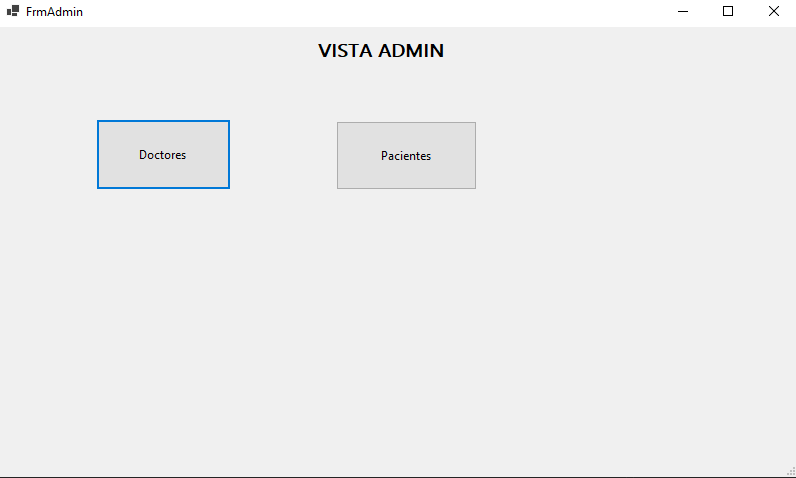
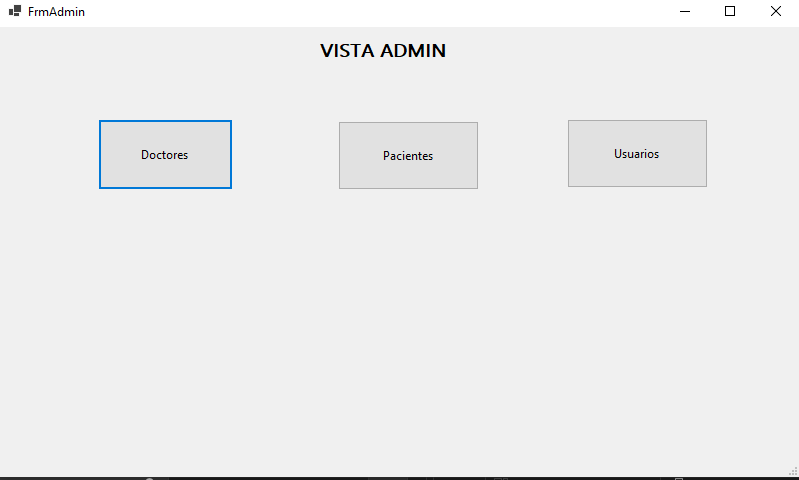
Se añaden capturas de pantalla y se termina el readme

diff --git a/README.md b/README.md
@@ -1,21 +1,154 @@
 # AppGestionClinica
-El propósito de este proyecto es realizar una entrega para reunir todos los conocimientos del semestre en un proyecto final, integrando con bases de datos y simulando un proyecto real. En este caso, es la gestión de una clínica, con Doctores, Pacientes, Citas, Disponibilidad, Registreo del paciente, Pagos y gestión de roles de usuario.
+El propósito de este proyecto es realizar una entrega para reunir todos los conocimientos del semestre en un proyecto final, integrando con bases de datos y simulando un proyecto real. En este caso, es la gestión de una clínica, con Doctores, Pacientes, Citas, Disponibilidad, tratamientos del paciente, Pagos y gestión de roles de usuario.
 
-## Funcionalidades actuales
-- Autenticación de usuarios con control de acceso por roles (Administrador y Recepcionista).
-- CRUD para la entidad:
+---
+
+## Funcionalidades Completas
+- **Autenticación y Autorización** por roles:
+  - Administrador
+  - Recepcionista
+  - Doctor
+- **CRUD completo** para:
+  - Pacientes
   - Doctores
-- Base de datos SQL Server con relaciones y procedimientos almacenados.
+  - Citas
+  - Tratamientos
+  - Pagos
+  - Usuarios
+- **Reglas de negocio específicas**:
+  - Los doctores solo están disponibles entre 8am a 4pm, cada hora puede tener una sola cita
+  - Se pueden realizar pagos parciales del tratamiento.
+  - Validación de "paz y salvo" antes de asignar citas.
+  - Control de roles, Administrador (Control de Usuarios, Doctores y Pacientes), Recepcionista (Asignación de Citas y pagos), Doctor (Tratamiento de paciente asignado)
+- **Reportes y consultas**:
+  - Visualización de citas por paciente y por doctor.
+  - Reporte de todos los anteriores tratamientos del paciente asignado
+  - Vista de pagos abonados al tratamiento (recepción lo ve) y deudas de los tratamientos (en una sola cita, el doctor puede asignar varios tratamientos)
+- **Manejo de errores** con bloques `try-catch` y mensajes.
+- **Validaciones de entrada** en formularios.
+- **Persistencia con SQL Server** usando ADO.NET.
+- **Aplicación de principios SOLID y patrones de diseño.**
+
+---
 
 ## Diagrama Entidad-Relación
 <img src="AppGestionClinica/Docs/ER.svg" width="1000" />
 
+---
+
 ## Tecnologías utilizadas
 - C# con Windows Forms (.NET Framework) -> Versión 9.0
 - SQL Server
-- ADO.NET con patrón Repository y Singleton
-- Principios SOLID aplicados (SRP y DIP)
+- ADO.NET con patrones de diseño
 - GitHub para control de versiones
+
+---
+
+## 🧱 Arquitectura y Diseño
+
+### Arquitectura de carpetas
+🔹 **Data:** Donde se encuentra la conexión a la base de datos y el UnitOfWork que usa todas las interfaces (instancias) de los Repository
+🔹 **Docs:** Donde se encuentra el archivo de configuración de la base de datos, y documentación e imágenes sobre el proyecto
+🔹 **Entities:** Todas las entidades del sistema.
+🔹 **Factory:** Factory para los menús.
+🔹 **Forms:** Todas las vistas (forms) del sistema, junto con la lógica de cada uno.
+🔹 **Repository/Interfaces:** Todas las interfaces para los repository del sistema.
+🔹 **Repository:** Todas las instancias de las interfaces (Repository)
+
+### 🧩 Patrones de diseño implementados
+
+🔹 **Repository**  
+Cada entidad tiene su propio repositorio para centralizar la lógica de acceso a datos.  
+📌 *Ejemplo:*  
+`PacienteRepository.cs` contiene todos los métodos para consultar, insertar, actualizar y eliminar pacientes desde SQL Server, separando la lógica de base de datos del resto del sistema.
+
+🔹 **Unit of Work**  
+Agrupa todos los repositorios y permite tratarlos como una unidad de trabajo, facilitando el acceso organizado desde cualquier formulario.  
+📌 *Ejemplo:*  
+Desde `frmRecepcionista.cs` se puede acceder a todos los repositorios a través de una sola instancia de `UnitOfWork`, como `unitOfWork.Pacientes.ObtenerTodos()`.
+
+🔹 **Singleton**  
+Controla la creación de una única instancia de la conexión a la base de datos durante toda la ejecución.  
+📌 *Ejemplo:*  
+`Database.GetConnection()` retorna siempre la misma instancia de `SqlConnection`, evitando conexiones múltiples no controladas.
+
+🔹 **Factory**  
+Permite crear el formulario adecuado según el rol del usuario autenticado.  
+📌 *Ejemplo:*  
+`MenuFactory.MenuRol(rol, doctorId)` retorna `FrmAdmin`, `FrmDoctor` o `frmRecepcionista`, simplificando la lógica de navegación.
+
+---
+
+### 📐 Principios SOLID aplicados
+
+🔸 **S - Single Responsibility Principle (Principio de Responsabilidad Única)**  
+Cada clase tiene una única función.  
+📌 *Ejemplo:*  
+`PacienteRepository.cs` solo se encarga de acceder y manipular datos de pacientes, mientras que `frmPacientes.cs` se encarga solo de la interfaz gráfica.
+
+🔸 **O - Open/Closed Principle (Abierto/Cerrado)**  
+El sistema está abierto a extensiones pero cerrado a modificaciones.  
+📌 *Ejemplo:*  
+Si quieres agregar un nuevo filtro de búsqueda para pacientes, puedes extender el repositorio sin modificar los métodos existentes.
+
+🔸 **L - Liskov Substitution Principle**  
+Las implementaciones de las interfaces pueden ser sustituidas por sus tipos base.  
+📌 *Ejemplo:*  
+Puedes sustituir cualquier repositorio (`PacienteRepository`, `DoctorRepository`) por otra clase que implemente la misma interfaz (`IPacienteRepository`, `IDoctorRepository`) sin romper la aplicación.
+
+🔸 **I - Interface Segregation Principle**  
+Se crean interfaces pequeñas y específicas por entidad, en lugar de una sola interfaz genérica.  
+📌 *Ejemplo:*  
+`IPacienteRepository`, `IDoctorRepository`, `IUsuarioRepository`, etc., cada una define métodos exclusivamente para su entidad.
+
+🔸 **D - Dependency Inversion Principle**  
+Los formularios dependen de interfaces, no de clases concretas.  
+📌 *Ejemplo:*  
+El formulario `frmPacientes` usa `IPacienteRepository`, lo que permite cambiar la implementación (por ejemplo, a una de pruebas o a una que acceda por API) sin modificar el formulario.
+
+---
+
+### 🧩 Ventajas de esta arquitectura
+
+- Mayor **mantenibilidad** y posibilidad de escalar nuevas funcionalidades.
+- Fácil de realizar **pruebas**.
+- Separación clara entre **capas (lógica, vista, datos)**.
+- Reducción de errores y fácil detección de los mismos.
+
+---
+
+## 🧪 Evidencias
+- **Login:**
+<img src="AppGestionClinica/Docs/Login.png" width="1000" />
+
+- **Vista Admin & una vista de CRUD:**
+<img src="AppGestionClinica/Docs/Admin.png" width="1000" />
+<img src="AppGestionClinica/Docs/Pacientes.png" width="1000" />
+
+- **Vista Doctor & Tratamiento:**
+<img src="AppGestionClinica/Docs/Doctor.png" width="1000" />
+<img src="AppGestionClinica/Docs/Tratamiento.png" width="1000" />
+
+- **Vista Recepción & Asignar Cita & Pagos:**
+<img src="AppGestionClinica/Docs/Recepcion.png" width="1000" />
+<img src="AppGestionClinica/Docs/AsignarCita.png" width="1000" />
+<img src="AppGestionClinica/Docs/VerCitas.png" width="1000" />
+<img src="AppGestionClinica/Docs/Pagos.png" width="1000" />
+
+---
+## 📚 Manual de Usuario Básico
+
+1. **Login**: Ingresa con tus credenciales. El sistema mostrará el menú adecuado según tu rol.
+2. **Recepcionista**:
+   - Registrar pacientes y doctores.
+   - Asignar citas si el paciente está a paz y salvo.
+   - Registrar pagos.
+3. **Doctor**:
+   - Ver citas asignadas.
+   - Registrar tratamientos.
+4. **Administrador**:
+   - Crear nuevos usuarios con rol.
+   - Consultar toda la información del sistema.
 
 ## Instrucciones para compilar y ejecutar
 1. Clonar el repositorio.
@@ -27,5 +160,5 @@ El propósito de este proyecto es realizar una entrega para reunir todos los con
    </connectionStrings>
    ```
 4. Abrir la solución `.sln` en Visual Studio.
-5. Establecer `frmLogin` como formulario de inicio.
 6. Ejecutar.
+7. Llenar Doctores, usuarios, pacientes, lo que haga falta para datos de prueba
